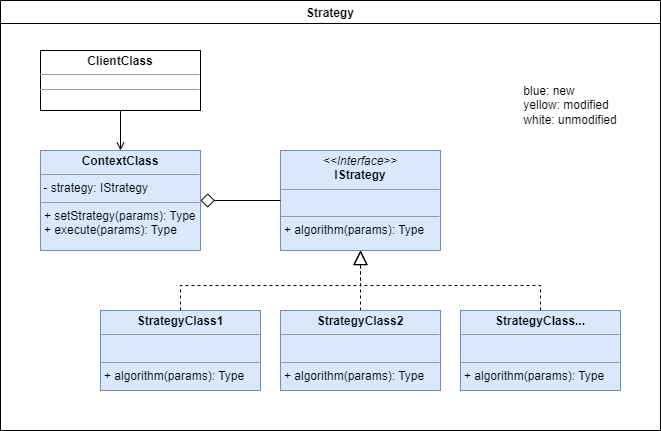
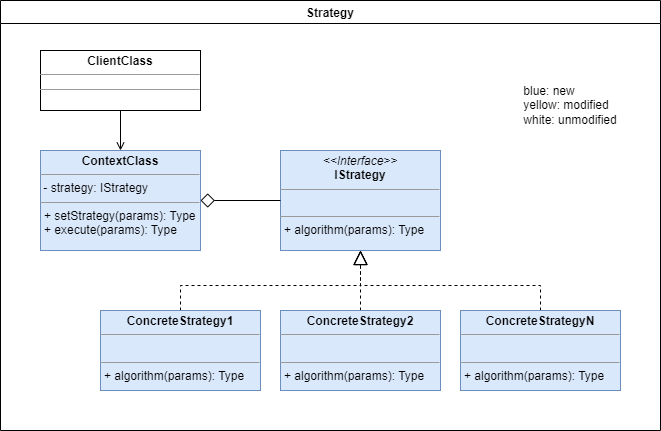
Strategy Design Pattern
Changelog:
- Added UML in README
- Add Strategy project

List of Changes:
- Add Theory in README

List of TODOs:
- Add implementation to Strategy project
- Add comments to Strategy project
- Add Theory from another sources

Changed region(s): [[0.7262, 0.7239, 0.9077, 0.7541], [0.4539, 0.7239, 0.6354, 0.7541], [0.1815, 0.7239, 0.3631, 0.7541]]

diff --git a/README.md b/README.md
@@ -198,8 +198,26 @@ So, a **a Behavioral Pattern lays out the overall goal and purpose for each obje
 
 ###  4.9. <a name='Strategy'></a>Strategy
 ![UMLdiagram](/uploads/BehavioralDP-Strategy.png)
-- Purpose:
-- Parts:  
+- Purpose: 
+  - To define a family of encapsulated and interchangeable algorithms, i.e. they are `client` independent. Each algorithm is called of `strategy`.
+  - to use different variants of an algorithm within an object and be able to switch from one algorithm to another during runtime .
+  - to isolate the business logic of a class from the implementation details of algorithms that may not be as important in the context of that logic
+  - To replace an humongous, general and plenty-of-conditionals main algorithm.
+- Parts:
+  - `ContextClass`  
+    - It has a reference to a `Strategy` object 
+      -  It calls the `Strategy` methods through the interface
+   - It has a setter to change the `strategy` object at runtime
+    -  It does not know 
+       -  what type of strategy it works with
+       -  how the algorithm is executed
+  - `IStrategy`: 
+    - It defines a common `interface` for all the algorithms.
+    - It is used by the `ContextClass` to call a `ConcreteStrategy`
+  - `ConcreteStrategy1`, ... `ConcreteStrategyN`: Implements an algorithm using the `IStrategy` interface.
+  - `ClientClass`:
+    - Creates the strategy object and passes it to the `ContextClass`
+    - It can change the `Strategy` object of the context class at runtime.
 - Steps:
 - LINK: [Here]()
 
